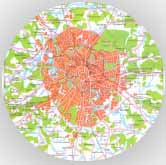
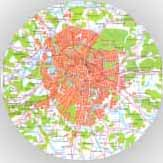
fix map and block social

diff --git a/css/main.css b/css/main.css
@@ -1430,7 +1430,22 @@ br {
 
 .sidebar__contact {
     margin: 20px 0;
-    padding: 0 20px;
+    /*padding: 0 20px;*/
+}
+
+.wrap_map_img{
+    width: 163px;
+    height: 163px;
+    overflow: hidden;
+    border-radius: 100%;
+    margin-bottom: 15px;
+}
+
+.wrap_map_img img{
+    width: 100%;
+    height: 100%;
+    object-fit: cover;
+    object-position: center;
 }
 
 .sidebar__email {
@@ -1443,9 +1458,19 @@ br {
 
 .sidebar__time {
     font-size: 10px;
+}
+
+.block_social{
     display: flex;
     align-items: center;
-    justify-content: space-between;
+}
+
+.block_social_info{
+    margin-left: auto;
+}
+
+.block_social_icon{
+    margin-right: 5px;
 }
 
 .sidebar__time img {
@@ -1566,11 +1591,6 @@ br {
     content: '';
     background-color: rgba(255, 255, 255, 0.3);
 }
-
-.sidebar__map {
-    margin-bottom: 15px;
-}
-
 /*------------------------------------------News--------------------------------------*/
 
 .news {

diff --git a/template-parts/header.php b/template-parts/header.php
@@ -50,7 +50,9 @@
 		});
 	</script>
 	<noscript>
-		<div><img src="https://mc.yandex.ru/watch/86930517" style="position:absolute; left:-9999px;" title="alt="Яндекс метрика"" alt="Яндекс метрика"/></div>
+		<div>
+			<img src="https://mc.yandex.ru/watch/86930517" style="position:absolute; left:-9999px;" title="alt=" Яндекс метрика"" alt="Яндекс метрика"/>
+		</div>
 	</noscript>
 	<!-- /Yandex.Metrika counter -->
 	<meta name="yandex-verification" content="949336b0486bc093"/>
@@ -94,10 +96,10 @@
 			</div>
 
 			<div class="menu__info">
-				<div class="menu__up">
-					<a href="tel:89995991615"><img src="<?php bloginfo('template_directory') ?>/img/telegram.svg" title="Телефон в шапке" alt="Телефон в шапке"/></a>
-					<a href="tel:89995991615"><img src="<?php bloginfo('template_directory') ?>/img/whatsap.svg" title="Телефон в шапке" alt="Телефон в шапке"/></a>
-					<a href="tel:89995991615" class="menu__tel">8-999-599-1615</a>
+				<div class="menu__up block_social">
+					<a href="tel:89995991615" class="block_social_icon"><img src="<?php bloginfo('template_directory') ?>/img/tg.png" title="Телефон в шапке" alt="Телефон в шапке"/></a>
+					<a href="tel:89995991615" class="block_social_icon"><img src="<?php bloginfo('template_directory') ?>/img/ws.png" title="Телефон в шапке" alt="Телефон в шапке"/></a>
+					<a href="tel:89995991615" class="menu__tel block_social_info">8-999-599-1615</a>
 				</div>
 				<p><span>с 8:00 до 20:00</span></p>
 				<a href="mailto:info@uc-avd.ru"><span>info@uc-avd.ru</span></a>

diff --git a/inc/block_left-sidebar.php b/inc/block_left-sidebar.php
@@ -30,15 +30,17 @@
 		</div>
 
 		<div class="sidebar__contact">
-			<img src="<?php bloginfo('template_directory')?>/img/map-littel.jpg" title="Карта" alt="Карта" class="sidebar__map"/>
+			<div class="wrap_map_img">
+				<img src="<?php bloginfo('template_directory')?>/img/map-littel.jpg" title="Карта" alt="Карта"/>
+			</div>
 			<p class="sidebar__place">Центральный офис: Москва, ул. Степана Супруна дом 4</p>
 			<a href="tel:89995991615" class="sidebar__phone">
 				<p>8-999-599-1615</p>
 			</a>
-			<p class="sidebar__time">
-				<a href="tel:88007587702" ><img src="<?php bloginfo('template_directory')?>/img/telegram.svg" title="Телефон в шапке" alt="Телефон в шапке"/></a>
-				<a href="tel:88007587702" ><img src="<?php bloginfo('template_directory')?>/img/whatsap.svg" title="Телефон в шапке" alt="Телефон в шапке"/></a>
-				c 8:00 до 20:00
+			<p class="sidebar__time block_social">
+				<a href="tel:88007587702" class="block_social_icon"><img src="<?php bloginfo('template_directory')?>/img/tg.png" title="Телефон в шапке" alt="Телефон в шапке"/></a>
+				<a href="tel:88007587702" class="block_social_icon"><img src="<?php bloginfo('template_directory')?>/img/ws.png" title="Телефон в шапке" alt="Телефон в шапке"/></a>
+				<span class="block_social_info">c 8:00 до 20:00</span>
 			</p>
 			<a href="mailto:info@985.su" class="sidebar__email">
 				<p>info@uc-avd.ru</p>

diff --git a/template-parts/footer.php b/template-parts/footer.php
@@ -65,11 +65,11 @@
 					</div>
 				</a>
 				<p class="down__place">Москва, ул. Степана Супруна дом 4</p>
-				<a href="tel:89995991615" class="down__phone">
-					<img src="<?php bloginfo('template_directory') ?>/img/telegram.svg" title="Телефон в футере" alt="Телефон в футере"/>
-					<img src="<?php bloginfo('template_directory') ?>/img/whatsap.svg" title="Телефон в футере" alt="Телефон в футере"/>
-					<p>8-999-599-1615</p>
-				</a>
+				<div class="down__phone block_social">
+					<a href="tel:88007587702" class="block_social_icon"><img src="<?php bloginfo('template_directory')?>/img/tg.png" title="Телефон в подвале" alt="Телефон в подвале"/></a>
+					<a href="tel:88007587702" class="block_social_icon"><img src="<?php bloginfo('template_directory')?>/img/ws.png" title="Телефон в подвале" alt="Телефон в подвале"/></a>
+					<a href="tel:899959991615" class="block_social_info">8-999-599-1615</a>
+				</div>
 				<p class="down__time"> с 8:00 до 22:00</p>
 				<a href="https://avtoshkola-ds.ru/sitemap_index.xml" class="down__link down__link_map">
 					Карта сайта

diff --git a/inc/block_offers.php b/inc/block_offers.php
@@ -11,7 +11,7 @@
 					$link = get_sub_field('offer_link');
 					$img = get_url_img_is_sub_field('offer_img', 'offer-320x135');
 					?>
-					<a href="<?php echo $link; ?>" class="offer__item">
+					<a href="<?php echo $link; ?>" class="offer__item popmake-186">
 						<div class="offer__item_wrap_img">
 							<img src="<?php echo $img; ?>" title="<?php echo $name; ?>" alt="<?php echo $name; ?>" />
 						</div>
